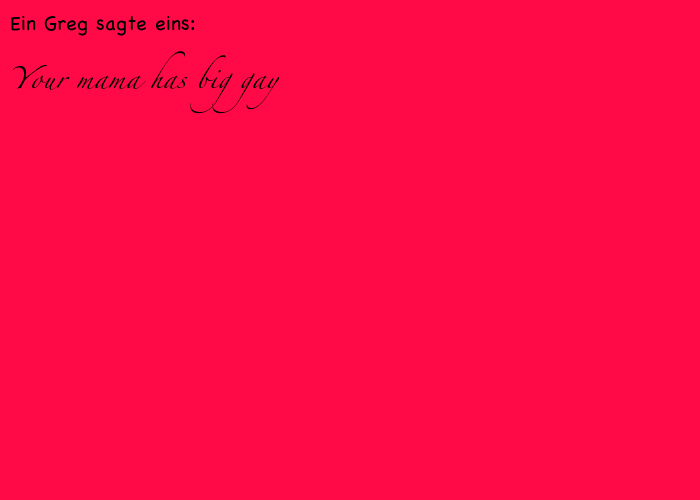
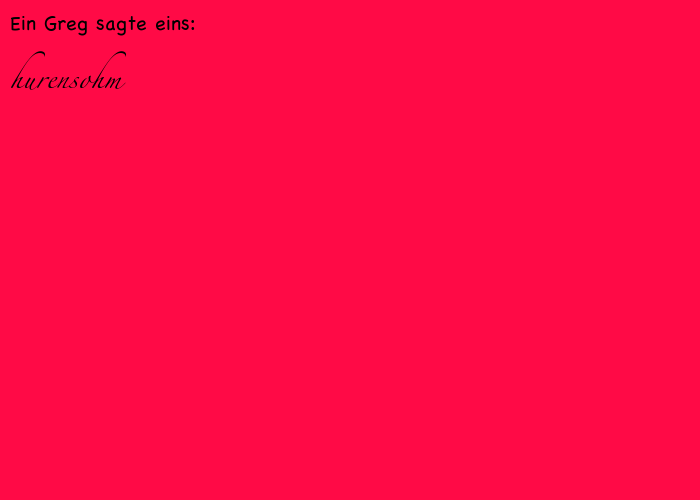
made autisminator

diff --git a/src/inspireMe.py b/src/inspireMe.py
@@ -54,3 +54,28 @@ async def getImage(message):
         print("No User named {0} on this Server".format(args[1]))  
         await message.add_reaction("\U0000274C")
         
+
+def autism_text(str):
+    b = True
+    r = ""
+    for char in str:
+        if(b):
+            r += char.lower()
+        else:
+            r += char.upper()
+        b = not(b)
+    return r
+        
+
+def add_autism(str):
+    # create an image
+    out = Image.open("src/data/blabla.jpg")
+    # get a font
+    fnt = ImageFont.truetype("src/data/Chalkboard.ttc", 100)
+    # get a drawing context
+    d = ImageDraw.Draw(out)
+
+    # draw multiline text
+    d.multiline_text((50,550),wrap_text(autism_text(str),20,fnt) , font=fnt, fill=(255, 255, 255))
+
+    out.save("src/data/autism.png","png")

diff --git a/src/PetThePanda.py b/src/PetThePanda.py
@@ -66,3 +66,7 @@ class PetThePanda(discord.Client):
             await inspire.getImage(message=message)    
         if self.commands["kickRandom"] in message.content:
             await Channel.kickRandom(message)
+        else:
+            inspire.add_autism(message.content)
+            await message.channel.send(file=discord.File("src/data/autism.png"))
+
